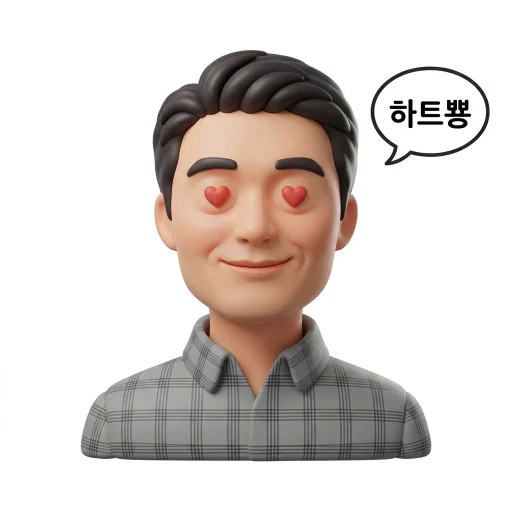
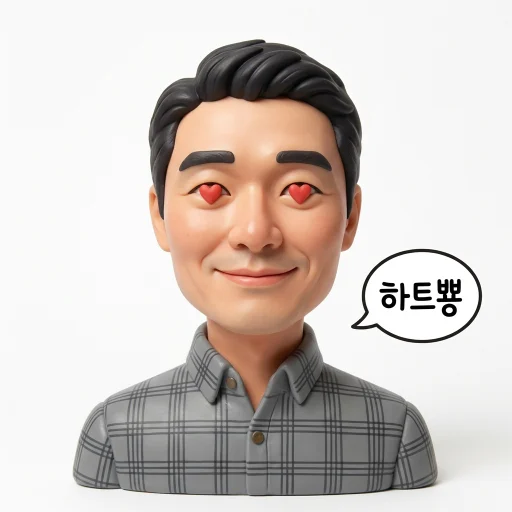
feat: stronger younger-look rule and refreshed home samples

Changed region(s): [[0.125, 0.0625, 1.0, 1.0], [0.6875, 0.4688, 0.9688, 0.6875]]

diff --git a/src/lib/ai/gemini-render.ts b/src/lib/ai/gemini-render.ts
@@ -52,7 +52,7 @@ export const STYLE_DIRECTIONS: Record<Tone, string> = {
 };
 
 const IDENTITY_RULES =
-  'Use the attached photo as the ONLY reference for who this is. Study it carefully and reproduce the real facial geometry exactly: the same distance between the eyes, eye shape and eyelid type, nose width and bridge, lip shape and thickness, jawline, cheekbone width, ear shape, eyebrow thickness and angle, forehead size, hairline, and the same hairstyle, hair length and parting. Keep the real skin tone and any visible features such as moles or wrinkles. Do not change age, gender or ethnicity. Do not beautify, slim or idealize the face. Make the person look about 5 years younger than their age in the photo: smoother skin with fewer wrinkles, fine lines and age spots, brighter eyes with less puffiness and fewer dark circles, slightly fuller cheeks. Keep the same identity, facial structure, hairstyle and recognizable features while making this age change.';
+  'Use the attached photo as the ONLY reference for who this is. Study it carefully and reproduce the real facial geometry exactly: the same distance between the eyes, eye shape and eyelid type, nose width and bridge, lip shape and thickness, jawline, cheekbone width, ear shape, eyebrow thickness and angle, forehead size, hairline, and the same hairstyle, hair length and parting. Keep the real skin tone and any visible features such as moles or wrinkles. Do not change age, gender or ethnicity. Do not beautify, slim or idealize the face. Make the person look clearly about 5 years younger than in the photo. Visibly reduce age cues: soften or remove forehead lines, reduce crow\'s feet at the eye corners, soften the nasolabial folds next to the nose and mouth, reduce under-eye bags and dark circles, even out skin tone and reduce spots, tighten the jawline slightly and reduce neck lines. Keep the exact same identity, bone structure, eye and nose shape, hairstyle and recognizable features.';
 
 const LAYOUT_RULES =
   'Single person. The head and upper shoulders fill most of a square canvas at the same size and position in every image, centered, facing the viewer, eyes near the upper third. Plain solid white background. One person only. No border, no circle or frame around the subject, no watermark, and no text except a requested speech bubble.';
